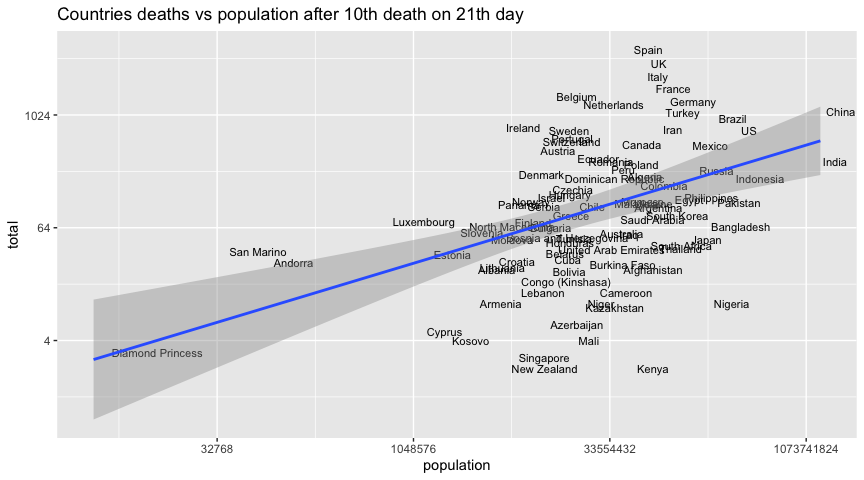
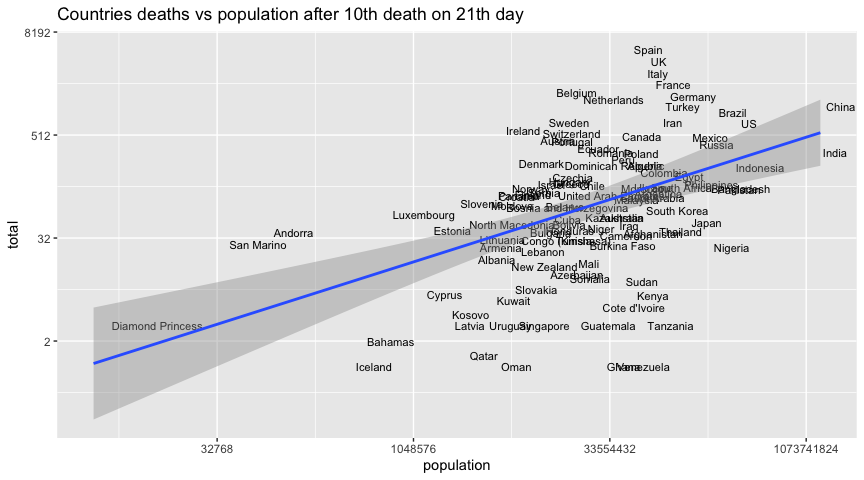
update chart

diff --git a/README.md b/README.md
@@ -111,7 +111,7 @@ covid_since_start <- since_start %>%
   left_join(population, by = "country") %>%
   mutate(total_percent = total / population)
 
-countries_highlight <- c("San Marino", "Andorra", "Iceland", "India", "Luxembourg", "US", "Spain", "Italy", "Japan", "China", "Iran", "UK", "South Korea", "Singapore", "Diamond Princess", "Vietnam", "Taiwan*", "Germany", "France", "Monaco", "Sweden", "Philippines", "Belgium", "Brazil")
+countries_highlight <- c("San Marino", "Andorra", "Iceland", "India", "Luxembourg", "US", "Spain", "Italy", "Japan", "China", "Iran", "UK", "South Korea", "Singapore", "Diamond Princess", "Vietnam", "Taiwan*", "Germany", "France", "Monaco", "Sweden", "Philippines", "Belgium", "Brazil", "Taiwan*", "Mexico")
 
 highlight_since_start <- filter(covid_since_start, country %in% countries_highlight)
 
@@ -122,24 +122,24 @@ total_us <- coronavirus %>%
   pull(total)
 
 # https://www.cdc.gov/flu/about/burden/2018-2019.html
-deaths_influenza <- data.frame(since_start = 1:100, total_percent = 1:100 * (34200 / 365) / population_us)
+deaths_influenza <- data.frame(since_start = 1:120, total_percent = 1:120 * (34200 / 365) / population_us)
 # https://www.cdc.gov/nchs/fastats/leading-causes-of-death.htm
-deaths_clrd <- data.frame(since_start = 1:100, total_percent = 1:100 * (160201 / 365) / population_us)
+deaths_clrd <- data.frame(since_start = 1:120, total_percent = 1:120 * (160201 / 365) / population_us)
 # https://www.cdc.gov/heartdisease/facts.htm
-deaths_heart <- data.frame( since_start = 1:100, total_percent = 1:100 * (647000 / 365) / population_us)
+deaths_heart <- data.frame( since_start = 1:120, total_percent = 1:120 * (647000 / 365) / population_us)
 
 highlight_since_start %>%
   ggplot(aes(x = since_start, y = total_percent, colour = country)) +
     geom_line(aes(group = country), data = covid_since_start, alpha = 0.3, colour = "grey") +
     geom_line(alpha = 0.8) +
     scale_colour_discrete(guide = 'none') +
-    scale_x_continuous(limits = c(0, 90)) +
+    scale_x_continuous(limits = c(0, 95)) +
     scale_y_continuous(labels = scales::percent_format(accuracy = 0.00001), trans='log2') +
     geom_dl(aes(label = country), method = list("last.bumpup", cex = 0.7)) +
     xlab("Number of days since tenth death") + ylab("") +
     labs(title = "Coronavirus Deaths by Region per Capita",
          subtitle = "Cumulative number of deaths as percent of population since tenth death",
-         caption = element_text("Source: Johns Hopkins University Center for Systems Science and Engineering. Data Updated: April 18, 2020\nFigure: github.com/javierluraschi/c19chart", color="grey")) +
+         caption = element_text("Source: Johns Hopkins University Center for Systems Science and Engineering. Data Updated: April 25, 2020\nFigure: github.com/javierluraschi/c19chart", color="grey")) +
     theme_bw() + 
     theme(plot.background = element_rect(fill = "#fff1e6"),
           panel.background = element_rect(fill = "#fff1e6",
@@ -151,25 +151,25 @@ highlight_since_start %>%
           panel.grid.minor = element_line(color="grey90"),
           panel.border = element_blank()) +
     geom_line(data = deaths_influenza, alpha = 0.3, colour="grey70", linetype="dashed") +
-    annotate("text", x=84.2, y = max(deaths_influenza$total_percent) + 0.000011, label = "influenza (93/day US)", size = 3, colour="grey70") +
+    annotate("text", x=87.2, y = max(deaths_influenza$total_percent) + 0.000011, label = "influenza (93/day US)", size = 3, colour="grey70") +
     geom_line(data = deaths_clrd, alpha = 0.3, colour="grey70", linetype="dashed") +
-    annotate("text", x=75.9, y = max(deaths_clrd$total_percent) + 0.00007, label = "chronic lower respiratory diseases (438/day US)", size = 3, colour="grey70") +
+    annotate("text", x=78.0, y = max(deaths_clrd$total_percent) + 0.00007, label = "chronic lower respiratory diseases (438/day US)", size = 3, colour="grey70") +
     geom_line(data = deaths_heart, alpha = 0.3, colour="grey70", linetype="dashed") +
-    annotate("text", x=81.7, y = max(deaths_heart$total_percent) + 0.00026, label = "heart disease (1772/day US)", size = 3, colour="grey70") +
+    annotate("text", x=84.7, y = max(deaths_heart$total_percent) + 0.00026, label = "heart disease (1772/day US)", size = 3, colour="grey70") +
     ggsave("covid19-deaths-per-capita.png", device = "png", width = 10, height = 5)
 ```
 
-    ## Warning: Removed 10 row(s) containing missing values (geom_path).
+    ## Warning: Removed 25 row(s) containing missing values (geom_path).
     
-    ## Warning: Removed 10 row(s) containing missing values (geom_path).
+    ## Warning: Removed 25 row(s) containing missing values (geom_path).
     
-    ## Warning: Removed 10 row(s) containing missing values (geom_path).
+    ## Warning: Removed 25 row(s) containing missing values (geom_path).
     
-    ## Warning: Removed 10 row(s) containing missing values (geom_path).
+    ## Warning: Removed 25 row(s) containing missing values (geom_path).
     
-    ## Warning: Removed 10 row(s) containing missing values (geom_path).
+    ## Warning: Removed 25 row(s) containing missing values (geom_path).
     
-    ## Warning: Removed 10 row(s) containing missing values (geom_path).
+    ## Warning: Removed 25 row(s) containing missing values (geom_path).
 
 ![](README_files/figure-gfm/unnamed-chunk-5-1.png)<!-- -->
 

diff --git a/covid19-world-cases-per-capita.md b/covid19-world-cases-per-capita.md
@@ -83,6 +83,11 @@ population <- population %>%
       Country == "Macedonia, FYR" ~ "North Macedonia",
       Country == "Slovak Republic" ~ "Slovakia",
       Country == "Venezuela, RB" ~ "Venezuela",
+      Country == "Bahamas, The" ~ "Bahamas",
+      Country == "Myanmar"  ~ "Burma",
+      Country == "Gambia, The" ~ "Gambia",
+      Country == "Syrian Arab Republic" ~ "Syria",
+      Country == "Congo, Dem. Rep." ~ "Congo (Brazzaville)",
       TRUE ~ Country
     )
   )
@@ -90,8 +95,8 @@ population <- population %>%
 population <- transmute(population, country = country, population = Year_2016)
 
 population <- rbind(population, data.frame(
-  country = c("Taiwan*", "Diamond Princess"),
-  population = c(23780000, 3700)
+  country = c("Taiwan*", "Diamond Princess", "MS Zaandam"),
+  population = c(23780000, 3700, 136 + 97)
 ))
 
 countries <- unique(since_start$country)
@@ -111,13 +116,13 @@ highlight_since_start %>%
     geom_line(aes(group = country), data = covid_since_start, alpha = 0.3, colour = "grey") +
     geom_line(alpha = 0.8) +
     scale_colour_discrete(guide = 'none') +
-    scale_x_continuous(limits = c(0,75)) +
+    scale_x_continuous(limits = c(0,95)) +
     scale_y_continuous(labels = scales::percent_format(accuracy = 0.0001), trans='log2') +
     geom_dl(aes(label = country), method = list("last.bumpup", cex = 0.7)) +
     xlab("Number of days since 100th case") + ylab("") +
     labs(title = "Coronavirus Cases by Region per Capita",
          subtitle = "Cumulative number of confirmed cases, divided by population, since 100th case",
-         caption = element_text("Source: Johns Hopkins University Center for Systems Science and Engineering. Data Updated: April 3, 2020\nFigure: github.com/javierluraschi/c19chart", color="grey")) +
+         caption = element_text("Source: Johns Hopkins University Center for Systems Science and Engineering. Data Updated: April 25, 2020\nFigure: github.com/javierluraschi/c19chart", color="grey")) +
     theme_bw() + 
     theme(plot.background = element_rect(fill = "#fff1e6"),
           panel.background = element_rect(fill = "#fff1e6",
